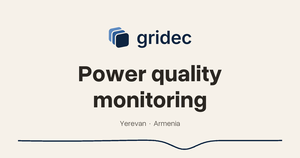
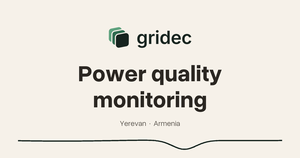
Зелёная палитра: og-картинки, PNG почтовой подписи и DESIGN.md перекрашены (2026-11-17, владелец: «перекрась и публикуй»)
- og/recolor_green.py: перекраска растровых знаков синий → зелёный с сохранением сглаживания (пиксель = доля между цветом знака и фоном).
- og/logo-mark.png и brand/gridec-logo{,-1x,-320x132}.png перекрашены; og/make_cards.py: линия просадки #17241F; og-карточки пересобраны.
- DESIGN.md: значения палитры и описания — зелёная марка, тихие метки на плите, медь как единственный громкий цвет.

brand/gridec-logo-2x.png не тронут: файл повреждён ещё с 4ea0c2e (PIL читает его пустым).

diff --git a/powertech-v2-build/og/recolor_green.py b/powertech-v2-build/og/recolor_green.py
@@ -1,0 +1,60 @@
+# -*- coding: utf-8 -*-
+"""Перекраска растровых знаков из синей палитры в зелёную (2026-11-17).
+
+Знак и почтовые плашки — плоские цвета на ровном фоне, края сглажены. Каждый
+пиксель раскладывается как смесь «цвет знака + фон»: берётся тот исходный цвет,
+отрезок до фона от которого ближе всего к пикселю, и доля t вдоль отрезка.
+Новый пиксель = та же доля между НОВЫМ цветом и тем же фоном. Сглаживание краёв
+сохраняется, фон не трогается. Прозрачность (альфа) переносится как есть.
+
+usage: python recolor_green.py <bg r,g,b> <in.png> <out.png>
+"""
+import sys
+from PIL import Image
+
+MAP = {  # синий -> зелёный, те же роли, что в build.py PALETTES['green']
+    (13, 36, 64): (23, 36, 31),      # #0D2440 -> #17241F плашка/чернила знака
+    (46, 94, 153): (47, 107, 79),    # #2E5E99 -> #2F6B4F марка
+    (95, 140, 194): (95, 162, 126),  # #5F8CC2 -> #5FA27E светлая плоскость (light-s)
+    (123, 164, 208): (134, 194, 160),  # #7BA4D0 -> #86C2A0 светлая плоскость
+}
+
+
+def recolor(im, bg):
+    im = im.convert('RGBA')
+    px = im.load()
+    cache = {}
+    for y in range(im.height):
+        for x in range(im.width):
+            r, g, b, a = px[x, y]
+            if a == 0:
+                continue
+            key = (r, g, b)
+            if key not in cache:
+                best = None
+                for src, dst in MAP.items():
+                    d = [src[i] - bg[i] for i in range(3)]
+                    dd = sum(v * v for v in d)
+                    t = sum((key[i] - bg[i]) * d[i] for i in range(3)) / dd
+                    t = max(0.0, min(1.0, t))
+                    err = sum((bg[i] + t * d[i] - key[i]) ** 2 for i in range(3))
+                    if best is None or err < best[0]:
+                        best = (err, t, dst)
+                err, t, dst = best
+                # пиксель, который не объясняется ни одним синим (чужой цвет) — не трогаем
+                cache[key] = key if err > 900 else tuple(
+                    round(bg[i] + t * (dst[i] - bg[i])) for i in range(3))
+            px[x, y] = cache[key] + (a,)
+    return im
+
+
+if __name__ == '__main__':
+    bg = tuple(int(v) for v in sys.argv[1].split(','))
+    src, out = sys.argv[2], sys.argv[3]
+    im = Image.open(src)
+    mode = im.mode
+    res = recolor(im, bg)
+    if mode == 'RGB':
+        res = res.convert('RGB')
+    res.save(out, 'PNG', optimize=True)
+    print(out, res.size)

diff --git a/powertech-v2-build/og/make_cards.py b/powertech-v2-build/og/make_cards.py
@@ -32,7 +32,7 @@ W, H = 1200, 630
 CREAM = (246, 241, 233)
 INK = (43, 39, 34)
 MUTE = (96, 90, 83)
-NAVY = (13, 36, 64)
+NAVY = (23, 36, 31)  # 2026-11-17: зелёная палитра, плашка #17241F (было #0D2440)
 
 # WhatsApp НЕ уменьшает карточку — он вырезает из неё КВАДРАТ ПО ЦЕНТРУ. Проверено
 # на снимке владельца 20.08 и воспроизведено расчётом: из 1200x630 берётся 630x630,

diff --git a/DESIGN.md b/DESIGN.md
@@ -1,6 +1,6 @@
 ---
 name: Gridec
-description: A measurement sheet for a power-quality diagnostics practice — warm paper, ink plates, one blue that only marks what was measured.
+description: A measurement sheet for a power-quality diagnostics practice — warm paper, ink plates, one green that only marks what was measured, and one copper mark for the next step.
 colors:
   paper: "#F6F1E9"
   paper-tint: "#F9F5EE"
@@ -9,15 +9,16 @@ colors:
   paper-placeholder: "#DCD3C4"
   whitewash: "#FDFAF4"
   ink-warm: "#2B2722"
-  ink-plate: "#0D2440"
-  ink-plate-mid: "#12294A"
-  ink-plate-high: "#162E52"
-  ink-plate-top: "#183256"
-  ink-plate-low: "#102745"
-  ink-shadow: "#081A31"
+  ink-plate: "#17241F"
+  ink-plate-mid: "#1B2B24"
+  ink-plate-high: "#1E3129"
+  ink-plate-top: "#21352C"
+  ink-plate-low: "#19271F"
+  ink-shadow: "#0E1814"
   highlight: "#FFFFFF"
-  brand: "#2E5E99"
-  brand-on-plate: "#7BA4D0"
+  brand: "#2F6B4F"
+  brand-on-plate: "#C5C4BD"
+  copper: "#E08A4B"
   error: "#A32C26"
 typography:
   display:
@@ -232,37 +233,38 @@ The world is deliberately not: a dark technical dashboard, a startup landing pag
 **Key Characteristics:**
 - Warm paper ground with a directional light and 6 % grain — never a flat fill, never a cool grey
 - Hairlines instead of frames; 2 px radius everywhere
-- One blue, spent only on measured things
+- One green, spent only on measured things; one copper mark per screen for the action
 - Pixel type for anything an instrument would print
 - Two languages on one type scale, matched by cap height rather than by point size
 - Depth by sheet order, not by shadow
 
 ## Colors
 
-A warm paper ground, ink plates that read as the back of the sheet, and a single blue that behaves like a marking pen.
+A warm paper ground, ink plates that read as the back of the sheet, and a single green that behaves like a marking pen. Two quiet colours carry the page; copper is the one loud colour, used in a very small quantity (palette changed from blue on 2026-11-17).
 
 ### Primary
-- **Цвет марки / Brand Blue** (`#2E5E99`): the accent on paper. Section numbers, the small measured values, the tick where the signal wire lands, the active state of a chip, the focus ring. It is never a decorative fill.
-- **Цвет марки на плите / Brand Blue on Plate** (`#7BA4D0`): the same voice on an ink plate, lightened so it survives the dark ground. Used for the accented word in a plate heading and for numbering inside dark cards.
+- **Цвет марки / Brand Green** (`#2F6B4F`): the accent on paper. Section numbers, the small measured values, the tick where the signal wire lands, the active state of a chip, the focus ring. It is never a decorative fill.
+- **Метки на плите / Quiet Mark on Plate** (`#C5C4BD`, paper at .78 over the plate): small labels, numbering and the accented word on an ink plate. Deliberately not a light green — the owner rejected the mint accent (2026-11-17).
+- **Медь / Copper** (`#E08A4B`): the one loud colour. Exactly one mark per screen, on the next action: the arrow chip of the hero button, the link at the end of section 03, the arrow chip in Contact. Hover keeps the white wash. Never a fill, never text in prose, never on measured values.
 
 ### Neutral
 - **Тёплая бумага / Warm Paper** (`#F6F1E9`): the page. Every light section is this one tone; the variation comes from light, not from different fills.
 - **Тёплая бумага, светлее / Paper Tint** (`#F9F5EE`): the top of the hero gradient and the fill of form fields — a single step above the page, never white.
 - **Тёплая бумага, глубже / Paper Shade** (`#F0EAE0`) and **Paper Deep** (`#EBE4D8`): alternate bands and low contrast surfaces.
 - **Белило / Whitewash** (`#FDFAF4`): type and marks on ink plates; the warm light end of the raking gradient.
-- **Тёплые чернила / Warm Ink** (`#2B2722`): all body text and small graphics on paper. Warm, not black — it sits at the same lightness as the blues, so contrast does not drop when the two meet.
-- **Чернильная плита / Ink Plate** (`#0D2440`) with its ramp (`#102745`, `#12294A`, `#162E52`, `#183256`): the dark sections, the industry cards, the index panel, the footer. The ramp exists so a plate can be a gradient of itself rather than a different colour.
-- **Тень плиты / Ink Shadow** (`#081A31`): the darkest member of the ink family, used only inside shadow and scrim values — never as a fill.
+- **Тёплые чернила / Warm Ink** (`#2B2722`): all body text and small graphics on paper. Warm, not black — it sits at the same lightness as the plate greens, so contrast does not drop when the two meet.
+- **Чернильная плита / Ink Plate** (`#17241F`, green graphite) with its ramp (`#19271F`, `#1B2B24`, `#1E3129`, `#21352C`): the dark sections, the industry cards, the index panel, the footer. The ramp exists so a plate can be a gradient of itself rather than a different colour.
+- **Тень плиты / Ink Shadow** (`#0E1814`): the darkest member of the ink family, used only inside shadow and scrim values — never as a fill.
 - **Блик / Highlight** (`#FFFFFF`): pure white exists in exactly one role — the peak of a hover state on an ink ground (button text and the arrow chip's wash). It is never a surface. On paper the light end is Whitewash, not white.
 - **Ошибка / Error** (`#A32C26`): form validation only.
 
 ### Named Rules
 
-**The Measured-Only Rule.** The brand blue marks something that was measured, counted or selected — a section number, a value, an event tick, a chosen chip, a focused field. If a proposed use of blue cannot answer "what was measured here?", it is decoration and does not ship.
+**The Measured-Only Rule.** The brand green marks something that was measured, counted or selected — a section number, a value, an event tick, a chosen chip, a focused field. If a proposed use of green cannot answer "what was measured here?", it is decoration and does not ship.
 
 **The One Paper Rule.** There is a single light ground. When a light surface needs to feel different, change the light on it (the raking gradient, the grain) or the sheet it sits on — never introduce a second beige.
 
-**The Warm Ink Rule.** Text on paper is `#2B2722`, not the plate ink. The plate ink on paper reads as a cold blue-black and pulls the page toward a screen; the warm ink keeps it a document.
+**The Warm Ink Rule.** Text on paper is `#2B2722`, not the plate ink. The plate ink on paper reads as a cold green-black and pulls the page toward a screen; the warm ink keeps it a document.
 
 ## Typography
 
@@ -364,7 +366,7 @@ The recurring silhouette is the rectangle divided by hairlines: cells that share
 
 ### Buttons
 - **Shape:** square with a 2 px radius; an arrow glyph sits in its own 22 px square chip inside the button.
-- **Primary:** ink plate fill (`#0D2440`) with paper text, 13 px / 20 px padding, 14 px semibold. On an ink section it inverts to paper fill with ink text.
+- **Primary:** ink plate fill (`#17241F`) with paper text, 13 px / 20 px padding, 14 px semibold. On an ink section it inverts to paper fill with ink text.
 - **Hover:** a wash sweeps the fill from the left; the arrow chip translates 2 px up and to the right. 0.4–0.45 s on the house curve.
 - **Ghost:** transparent with a hairline edge, warm ink text — used for the secondary action next to a primary one.
 - **Active:** `translateY(1px)`. Focus: 2 px brand outline, 3 px offset, switching to whitewash on dark grounds.
@@ -382,9 +384,9 @@ The recurring silhouette is the rectangle divided by hairlines: cells that share
 
 ### Inputs / Fields
 
-The enquiry form is set as a sheet of a measurement protocol, not as a web form. Each row carries a pixel number in the brand blue and a name in sentence case; the numbering runs continuously through the whole form and is driven by a CSS counter, so it cannot drift out of order by hand.
+The enquiry form is set as a sheet of a measurement protocol, not as a web form. Each row carries a pixel number in the brand green and a name in sentence case; the numbering runs continuously through the whole form and is driven by a CSS counter, so it cannot drift out of order by hand.
 
-- **Line fields** (name, company, email, phone): no box and no fill — the text is written on a rule (`inset 0 -1px 0` hairline) at 16 px. Focus thickens the rule to 2 px and turns it brand blue; an error turns it `#A32C26`. This is the single biggest reason the form reads as a document: four boxes became four writing lines.
+- **Line fields** (name, company, email, phone): no box and no fill — the text is written on a rule (`inset 0 -1px 0` hairline) at 16 px. Focus thickens the rule to 2 px and turns it brand green; an error turns it `#A32C26`. This is the single biggest reason the form reads as a document: four boxes became four writing lines.
 - **The one box** is the description field — it is a region rather than a line, and it is the most important field in the form. Paper-tint fill, hairline inset, 2 px radius, 15 px.
 - **Labels** are 13 px in sentence case, never caps; the only caps in the dialog is the section marker above the contact rows, and it takes no number.
 - **Placeholders** are the same ink as the value, only lighter (5.0:1 against 13.7:1), so an example can never be mistaken for an entry.
@@ -407,7 +409,7 @@ Escape closes, the backdrop closes, and the page behind is scroll-locked while a
 - **Mobile:** the centre navigation is replaced entirely by the index panel; the header compacts twice, at 900 px and at 430 px.
 
 ### The Readout
-The hero carries a live instrument readout: a caption in the pixel face, a 22 px pixel value with its unit, and a state line that turns brand blue when the wave field registers an event. It is the clearest statement of the whole system — the page shows a measurement rather than describing one. It is also the last thing in the hero's reading order, after the heading and the paragraph.
+The hero carries a live instrument readout: a caption in the pixel face, a 22 px pixel value with its unit, and a state line that turns brand green when the wave field registers an event. It is the clearest statement of the whole system — the page shows a measurement rather than describing one. It is also the last thing in the hero's reading order, after the heading and the paragraph.
 
 ### The Footer Plate
 The page ends on a fixed ink plate that the content slides off: the company name in the body face, contacts, the section index, and a bottom bar. It is revealed by scroll position rather than by animation, and the effect is disabled below 960 px where fixed layers misbehave.
@@ -415,7 +417,7 @@ The page ends on a fixed ink plate that the content slides off: the company name
 ## Do's and Don'ts
 
 ### Do:
-- **Do** spend the brand blue only on something measured, counted or selected — the Measured-Only Rule.
+- **Do** spend the brand green only on something measured, counted or selected — the Measured-Only Rule.
 - **Do** draw edges as `box-shadow: inset 0 0 0 1px` so hover and focus can change an edge without moving the layout.
 - **Do** keep one radius (2 px) and one easing curve (`cubic-bezier(.16, 1, .3, 1)`) across every component; durations run 0.16 s for a press to 0.45 s for a ground change.
 - **Do** set numbers, units, counters and values in Departure Mono, and sentences in the text face.
